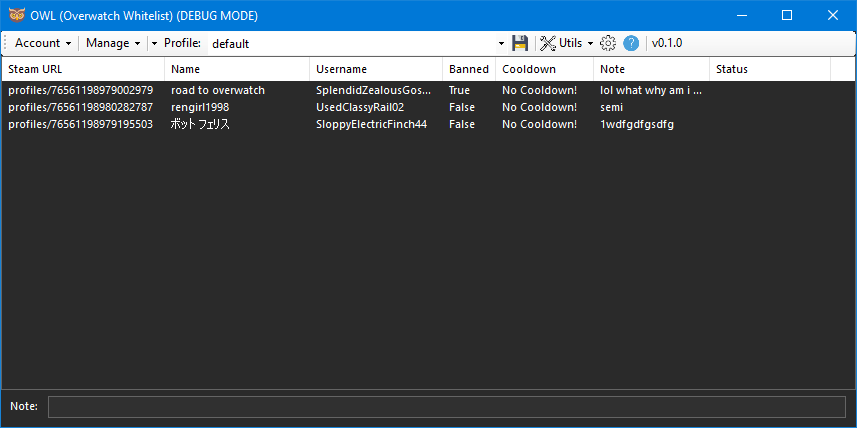
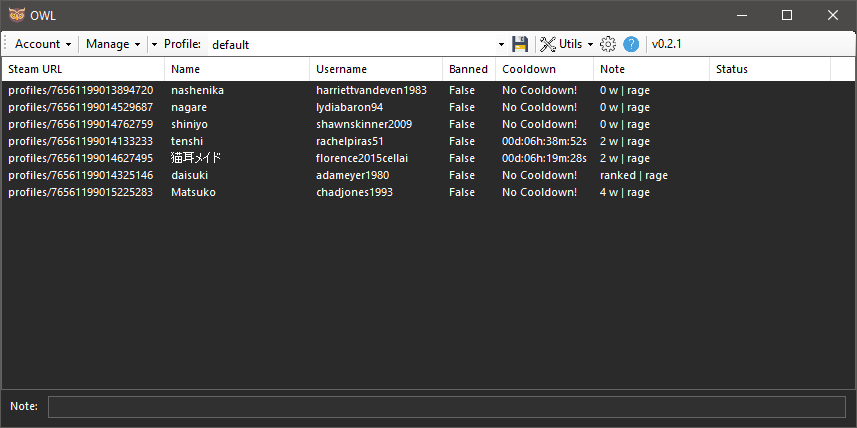
clean up

diff --git a/owl/Globals.cs b/owl/Globals.cs
@@ -37,8 +37,8 @@ namespace owl
         public static class Info
         {
             public const int    vMajor       = 0,
-                                vMinor       = 1,
-                                vPatch       = 0;
+                                vMinor       = 2,
+                                vPatch       = 1;
 
             public const string verStr       = "0.2.1",
                                 cfgPath      = "./config.json",

diff --git a/owl/Forms/Main.cs b/owl/Forms/Main.cs
@@ -490,7 +490,7 @@ namespace owl
                 "* Steam URL's are automatically sanitized.\n" +
                 "* Clicking on the Cooldown dropdown will by default add 21 hours to the selected account."
 
-               , "OWL (Overwatch Whitelist)", MessageBoxButtons.OK, MessageBoxIcon.Information
+               , "OWL", MessageBoxButtons.OK, MessageBoxIcon.Information
             );
         }
 

diff --git a/README.md b/README.md
@@ -1,7 +1,7 @@
-# <img width=34 src="owl/icon.ico" /> OWL (Overwatch Whitelist)
+# <img width=34 src="owl/icon.ico" /> OWL
 A multipurpose tool for managing Steam accounts
 <table>
-    <tr><td><b>State</b></td><td>Dev</td></tr>
+    <tr><td><b>State</b></td><td>Alpha</td></tr>
     <tr><td><b>Version</b></td><td>0.2.1</td></tr>
     <tr><td><b>Latest Release</b></td><td>N/A</td></tr>
     <tr><td><b>License</b></td><td>???</td></tr>
@@ -12,14 +12,21 @@ A multipurpose tool for managing Steam accounts
 ## Requirements
 * <a href="https://dotnet.microsoft.com/download/dotnet-framework">.NET Framework</a> (4.5 or <b>Higher</b>)
 
-## (Planned) Features
+## Features
 * Multiple Loadable Profiles for different set of accounts. ✓
 * Auto-Login ✓
 * Cooldown Tracker ✓
 * Profile Editor
 * Protection of information (Encryption/Obfuscation + Hashing)
-* Easily import accounts from <a href="https://github.com/Ashesh3/Steam-Account-Generator">Steam Account Generator</a> ✓
-* Directly import accounts from  <a href="https://accgen.cathook.club">Cathook's Account Generator</a>'s Local Storage (Firefox ✓)
+* Import accounts from <a href="https://github.com/Ashesh3/Steam-Account-Generator">Steam Account Generator</a> ✓
+* Import accounts from  <a href="https://accgen.cathook.club">Cathook's Account Generator</a>'s Local Storage (Firefox ✓)
+* Steam User Data Management
+* Steam Account Editor
+* Steam Hour Booster
+
+## To Do
+* Applying cooldown should be handled by the account class
+* Local Storage import for Chrome
 
 ## Configuring OWL
 You can configure OWL through the settings form or manually through the <i>config.json</i> file located at the base of OWL.
